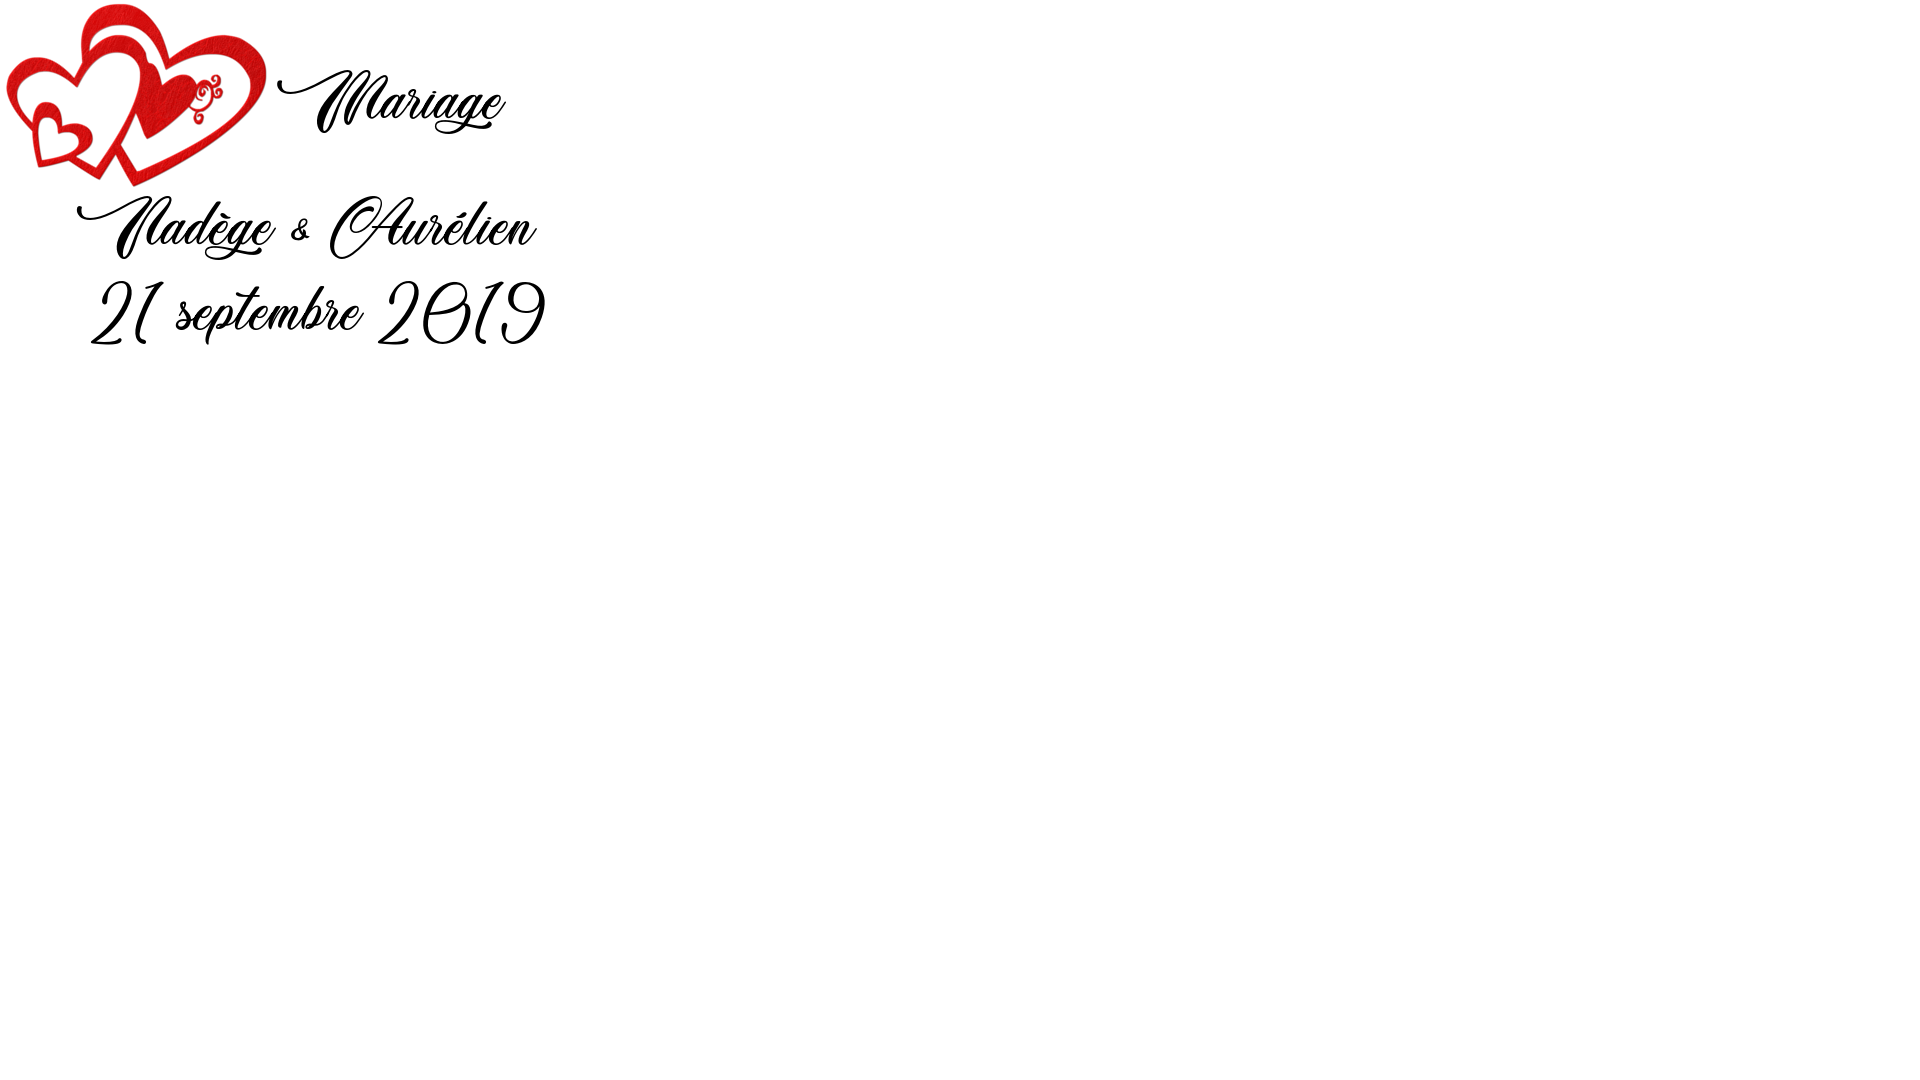
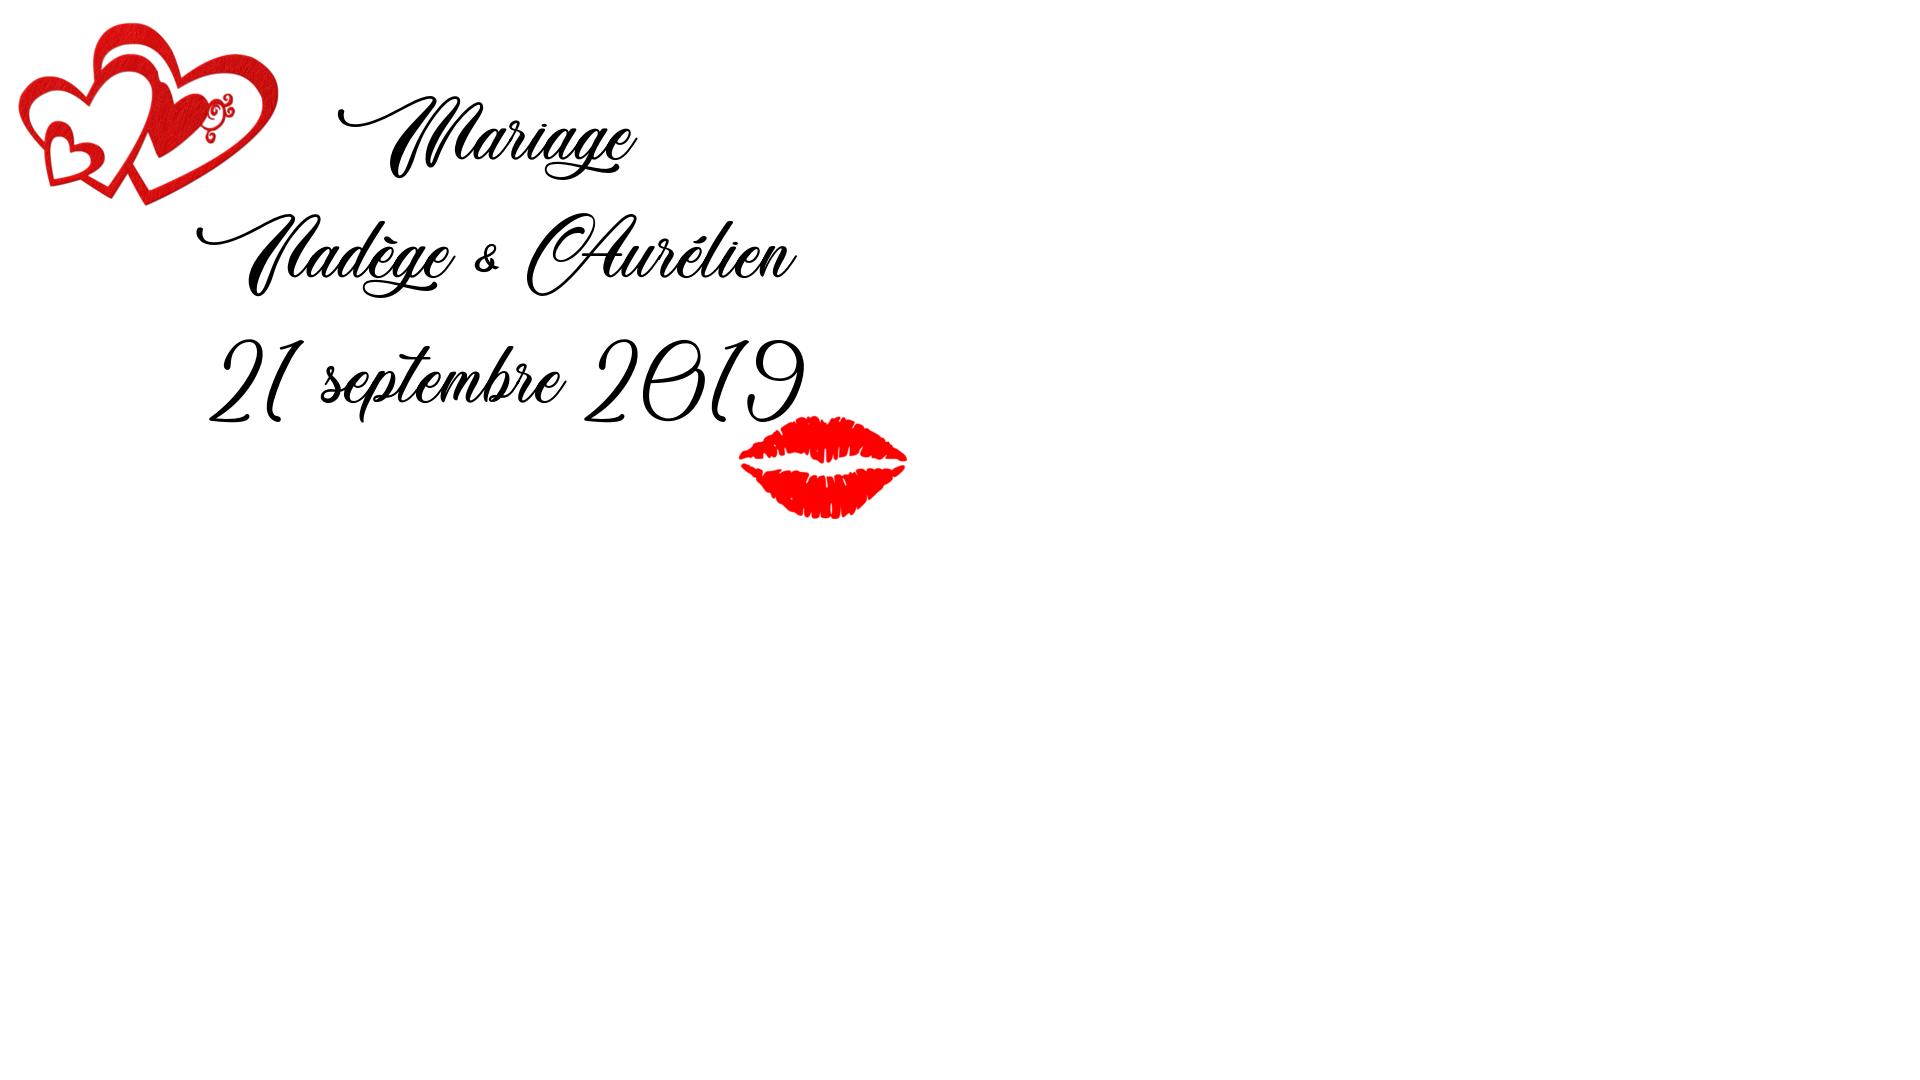
Adjust start screen and template to 1920x1080

Changed region(s): [[0.0, 0.0, 0.4688, 0.4889]]

diff --git a/main.py b/main.py
@@ -74,7 +74,7 @@ def init_environment():
     """Function that initialize environment"""
     environment = {}
     environment["output_photos_folder"] = "output_photos"
-    environment["output_montages_photos_folder"] = "output_photos/images"
+    environment["output_montages_photos_folder"] = "output_photos/montages"
     environment["tmp_photo_print_path"] = "/tmp/tempprint.png"
     environment["template_path"] = "images/template.png"
     environment["last_taken_picture_path"] = None
@@ -96,19 +96,40 @@ def init_environment():
     environment["camera_parameters"]["rotation"] = 0
     environment["camera_parameters"]["hflip"] = False
     environment["camera_parameters"]["vflip"] = False
-    environment["camera_parameters"]["brightness"] = 50
+    #environment["camera_parameters"]["brightness"] = 50
     environment["camera_parameters"]["preview_alpha"] = 120
     environment["camera_parameters"]["preview_fullscreen"] = True
+    environment["camera_parameters"]["video_stabilization"] = True
     environment["camera_pointer"] = None
+
+    environment["picture_for_pasting_width"] = 550
+    environment["picture_for_pasting_height"] = 360
+
+    environment["montage_rebord"] = 30
 
     return environment
 
 ImageShowed = False
 Printing = False
-#IMAGE_WIDTH = 558
-#IMAGE_HEIGHT = 374
-IMAGE_WIDTH = 550
-IMAGE_HEIGHT = 360
+
+def compute_picture_size_and_position(environment):
+    """ Compute picture size and position to fit the screen """
+    environment["picture_for_pasting_width"] = (environment["screen_w"] - (3 * environment["montage_rebord"]) ) /2
+    environment["picture_for_pasting_height"] = (environment["screen_h"] - (3 * environment["montage_rebord"]) ) /2
+
+    delta_x = environment["picture_for_pasting_width"] + (2 * environment["montage_rebord"])
+    delta_y = environment["montage_rebord"]
+    environment["picture_for_pasting_pos1"] = (delta_x, delta_y)
+    delta_y = environment["picture_for_pasting_height"] + (2 * environment["montage_rebord"])
+    environment["picture_for_pasting_pos2"] = (delta_x, delta_y)
+    delta_x = environment["montage_rebord"]
+    environment["picture_for_pasting_pos3"] = (delta_x, delta_y)
+
+    lg.info("picture_for_pasting_width:"+str(environment["picture_for_pasting_width"]))
+    lg.info("picture_for_pasting_height:"+str(environment["picture_for_pasting_height"]))
+    lg.info("picture_for_pasting_pos1:"+str(environment["picture_for_pasting_pos1"]))
+    lg.info("picture_for_pasting_pos2:"+str(environment["picture_for_pasting_pos2"]))
+    lg.info("picture_for_pasting_pos3:"+str(environment["picture_for_pasting_pos3"]))
 
 def setup_pygame(environment):
     """ Setup pygame environment """
@@ -134,9 +155,6 @@ def setup_pygame(environment):
     environment["replay_picture_scale_w"] = environment["screen_w"] # how wide to scale the jpg when replaying
     environment["replay_picture_scale_h"] = environment["screen_h"] # how high to scale the jpg when replaying
 
-    #update camera resolution ?!
-    environment["camera_parameters"]["resolution"] = environment["screen_w"], environment["screen_h"]
-
 def unsetup_rpi_camera(environment):
     """ Unset up RPI camera"""
     if environment["camera_pointer"]:
@@ -151,7 +169,7 @@ def setup_rpi_camera(environment):
     environment["camera_pointer"].rotation = environment["camera_parameters"]["rotation"]
     environment["camera_pointer"].hflip = environment["camera_parameters"]["hflip"]
     environment["camera_pointer"].vflip = environment["camera_parameters"]["vflip"]
-    environment["camera_pointer"].brightness = environment["camera_parameters"]["brightness"]
+    #environment["camera_pointer"].brightness = environment["camera_parameters"]["brightness"]
     environment["camera_pointer"].preview_alpha = environment["camera_parameters"]["preview_alpha"]
     environment["camera_pointer"].preview_fullscreen = environment["camera_parameters"]["preview_fullscreen"]
     #environment["camera_pointer"].framerate             = 24
@@ -167,6 +185,7 @@ def setup_rpi_camera(environment):
     #environment["camera_pointer"].image_effect          = 'none'
     #environment["camera_pointer"].color_effects         = None
     #environment["camera_pointer"].crop                  = (0.0, 0.0, 1.0, 1.0)
+    environment["camera_pointer"].video_stabilization = environment["camera_parameters"]["video_stabilization"]
 
 def setup_rpi_gpio(environment):
     """ The RPI GPIO setup"""
@@ -290,7 +309,6 @@ def update_display(environment, BackgroundColor, Message, Numeral, CountDownPhot
     pygame.display.flip()
     return
 
-
 def ShowPicture(environment, file, delay):
     global pygame
     global screenPicture
@@ -306,7 +324,6 @@ def ShowPicture(environment, file, delay):
     ImageShowed = True
     time.sleep(delay)
 
-# display one image on screen
 def show_image(environment, image_path):
     """Display an image on full screen"""
     environment["screen_pointer"].fill(pygame.Color("white")) # clear the screen
@@ -367,7 +384,7 @@ def wait_for_event(environment):
                     return EVENT_TYPE_STOP
                 elif event.key == pygame.K_DOWN:
                     return EVENT_TYPE_TAKE_PICTURE
-        time.sleep(0.2)
+        time.sleep(0.1)
     return EVENT_NO_TYPE
 
 def wait_for_allow_printing_event(environment, seconds_to_wait):
@@ -435,48 +452,63 @@ def take_a_picture(environment, part):
 
     for x in range(3, -1, -1):
         if x == 0:
-            update_display(environment, "black", "PRENEZ LA POSE", "", "", False)
+            update_display(environment, "black", "PRENEZ LA POSE ", "", "", False)
         else:
-            update_display(environment, "black", "PREPAREZ VOUS A PRENDRE LA POSE", "", str(x), False)
+            update_display(environment, "black", "PREPAREZ VOUS A PRENDRE LA POSE ("+str(part)+")", "", str(x), False)
         time.sleep(1)
 
     update_display(environment, "", "", "", "", False)
-    ts = time.time()
-    filename = os.path.join(environment["output_photos_folder"],str(ts)+'-photo.png')
-    environment["camera_pointer"].capture(filename, resize=(IMAGE_WIDTH, IMAGE_HEIGHT))
+    ts = time.strftime('%Y%m%d_%H%M%S', time.localtime())
+    filename_without_extension = os.path.join(environment["output_photos_folder"],str(ts)+'-photo')
+    filename = filename_without_extension+".jpg"
+    #filename = filename_without_extension+".png"
+    environment["camera_pointer"].capture(filename, 'jpeg', use_video_port=True)
     environment["camera_pointer"].stop_preview()
     ShowPicture(environment, filename, 2)
     return filename
 
+def creation_montage(environment, filename1, filename2, filename3):
+    """Creation du montage photo"""
+    image1 = PIL.Image.open(filename1).resize((environment["picture_for_pasting_width"], environment["picture_for_pasting_height"]))
+    image1 = image1.resize((environment["picture_for_pasting_width"], environment["picture_for_pasting_height"]))
+    image2 = PIL.Image.open(filename2).resize((environment["picture_for_pasting_width"], environment["picture_for_pasting_height"]))
+    #image2 = image2.resize((environment["picture_for_pasting_width"], environment["picture_for_pasting_height"]))
+    image3 = PIL.Image.open(filename3).resize((environment["picture_for_pasting_width"], environment["picture_for_pasting_height"]))
+    #image3 = image3.resize((environment["picture_for_pasting_width"], environment["picture_for_pasting_height"]))
+
+    background_image = PIL.Image.open(environment["template_path"])
+    #background_image.paste(image1, (625, 30))
+    #background_image.paste(image2, (625, 410))
+    #background_image.paste(image3, (55, 410))
+
+    background_image.paste(image1, environment["picture_for_pasting_pos1"])
+    background_image.paste(image2, environment["picture_for_pasting_pos2"])
+    background_image.paste(image3, environment["picture_for_pasting_pos3"])
+
+    # Create the final filename
+    ts = time.strftime('%Y%m%d_%H%M%S', time.localtime())
+    montage_filename = os.path.join(environment["output_montages_photos_folder"], str(ts)+"-montage.png")
+    # Save it to the usb drive
+    background_image.save(montage_filename)
+    return montage_filename
+
 def take_pictures(environment):
     """Function that handle the scenario take a picture"""
     lg.info("SCENARIO : Take pictures")
+    update_display(environment, "", "C EST PARTI POUR 3 PHOTOS", "", "", False)
+    time.sleep(1)
     filename1 = take_a_picture(environment, "1/3")
     filename2 = take_a_picture(environment, "2/3")
     filename3 = take_a_picture(environment, "3/3")
 
-    update_display(environment, "Montage en cours ...", "", "", "", False)
+    update_display(environment, "", "Montage en cours ...", "", "", False)
 
-    image1 = PIL.Image.open(filename1)
-    image2 = PIL.Image.open(filename2)
-    image3 = PIL.Image.open(filename3)
 
-    background_image = PIL.Image.open(environment["template_path"])
-    background_image.paste(image1, (625, 30))
-    background_image.paste(image2, (625, 410))
-    background_image.paste(image3, (55, 410))
-    # Create the final filename
-    ts = time.time()
-    Final_Image_Name = os.path.join(environment["output_montages_photos_folder"], str(ts)+"-montage.png")
-    # Save it to the usb drive
-    background_image.save(Final_Image_Name)
-    environment["last_taken_picture_path"] = Final_Image_Name
     # Save a temp file, its faster to print from the pi than usb
-    background_image.save(environment["tmp_photo_print_path"])
-    ShowPicture(environment, environment["tmp_photo_print_path"], 3)
-    background_image2 = background_image.rotate(90)
-    background_image2.save(environment["tmp_photo_print_path"])
+    environment["last_taken_picture_path"] = creation_montage(environment, filename1, filename2, filename3)
 
+    show_image(environment, environment["last_taken_picture_path"])
+    time.sleep(SECONDS_TO_WAIT_TO_SHOW_PICTURE_READY_TO_PRINT)
     printing_asked = wait_for_allow_printing_event(environment, 5)
     lg.info("printing_asked:"+str(printing_asked))
     if printing_asked:
@@ -486,7 +518,12 @@ def show_last_picture(environment):
     """Function that handle the scenario take a picture"""
     lg.info("SCENARIO : Show last picture")
     if environment["last_taken_picture_path"]:
-        ShowPicture(environment, environment["last_taken_picture_path"], SECONDS_TO_WAIT_TO_SHOW_PICTURE_READY_TO_PRINT)
+        if False:
+            ShowPicture(environment, environment["last_taken_picture_path"], SECONDS_TO_WAIT_TO_SHOW_PICTURE_READY_TO_PRINT)
+        else:
+            show_image(environment, environment["last_taken_picture_path"])
+            time.sleep(SECONDS_TO_WAIT_TO_SHOW_PICTURE_READY_TO_PRINT)
+
         #ShowPicture(environment, environment["last_taken_picture_path"], 1)
         printing_asked = wait_for_allow_printing_event(environment, 5)
         lg.info("printing_asked:"+str(printing_asked))
@@ -550,6 +587,7 @@ def my_main(main_args):
     init_folders(environment)
     setup_rpi_gpio(environment)
     setup_rpi_camera(environment)
+    compute_picture_size_and_position(environment)
     main_thread = LaunchThread(main_pygame, environment)
     main_thread.start()
     main_thread.join()

diff --git a/test_picamera.py b/test_picamera.py
@@ -1,0 +1,35 @@
+import picamera
+import time
+
+def how_long(start, op):
+    print('%s took %.2fs' % (op, time.time() - start))
+    return time.time()
+
+start = time.time()
+with picamera.PiCamera() as camera:
+    start = how_long(start, 'init')
+    camera.resolution = (1920, 1080)
+    start = how_long(start, 'set resolution')
+    camera.brightness = 50
+    start = how_long(start, 'set brightness')
+    camera.preview_fullscreen = True
+    start = how_long(start, 'set preview_fullscreen')
+    #camera.preview_alpha = 120
+    #start = how_long(start, 'set preview_alpha')
+    camera.framerate = 90
+    start = how_long(start, 'set framerate')
+    #camera.video_stabilization = True
+    #start = how_long(start, 'set video_stabilization')
+    #camera.shutter_speed = 800
+    #start = how_long(start, 'set shutter_speed')
+    camera.start_preview()
+    start = how_long(start, 'start_preview')
+    time.sleep(4)
+    start = time.time()
+    #camera.capture('img14.jpg', 'jpeg', use_video_port=True)
+    camera.capture('img14.png')
+    start = how_long(start, 'capture')
+    camera.stop_preview()
+    start = how_long(start, 'stop_preview')
+    camera.close()
+    start = how_long(start, 'close')
